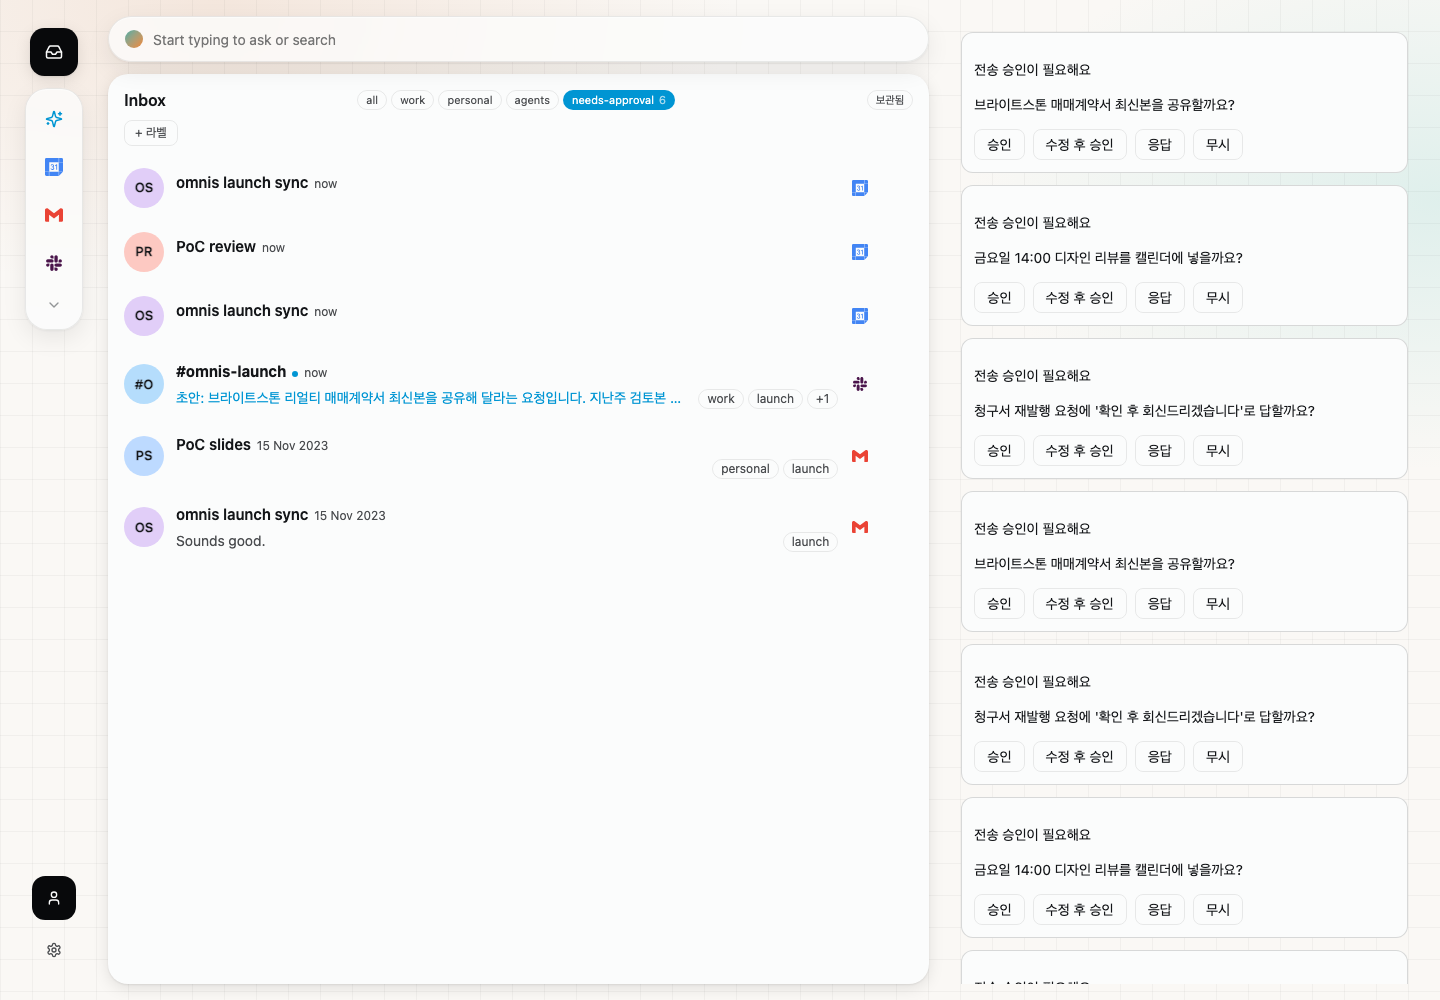
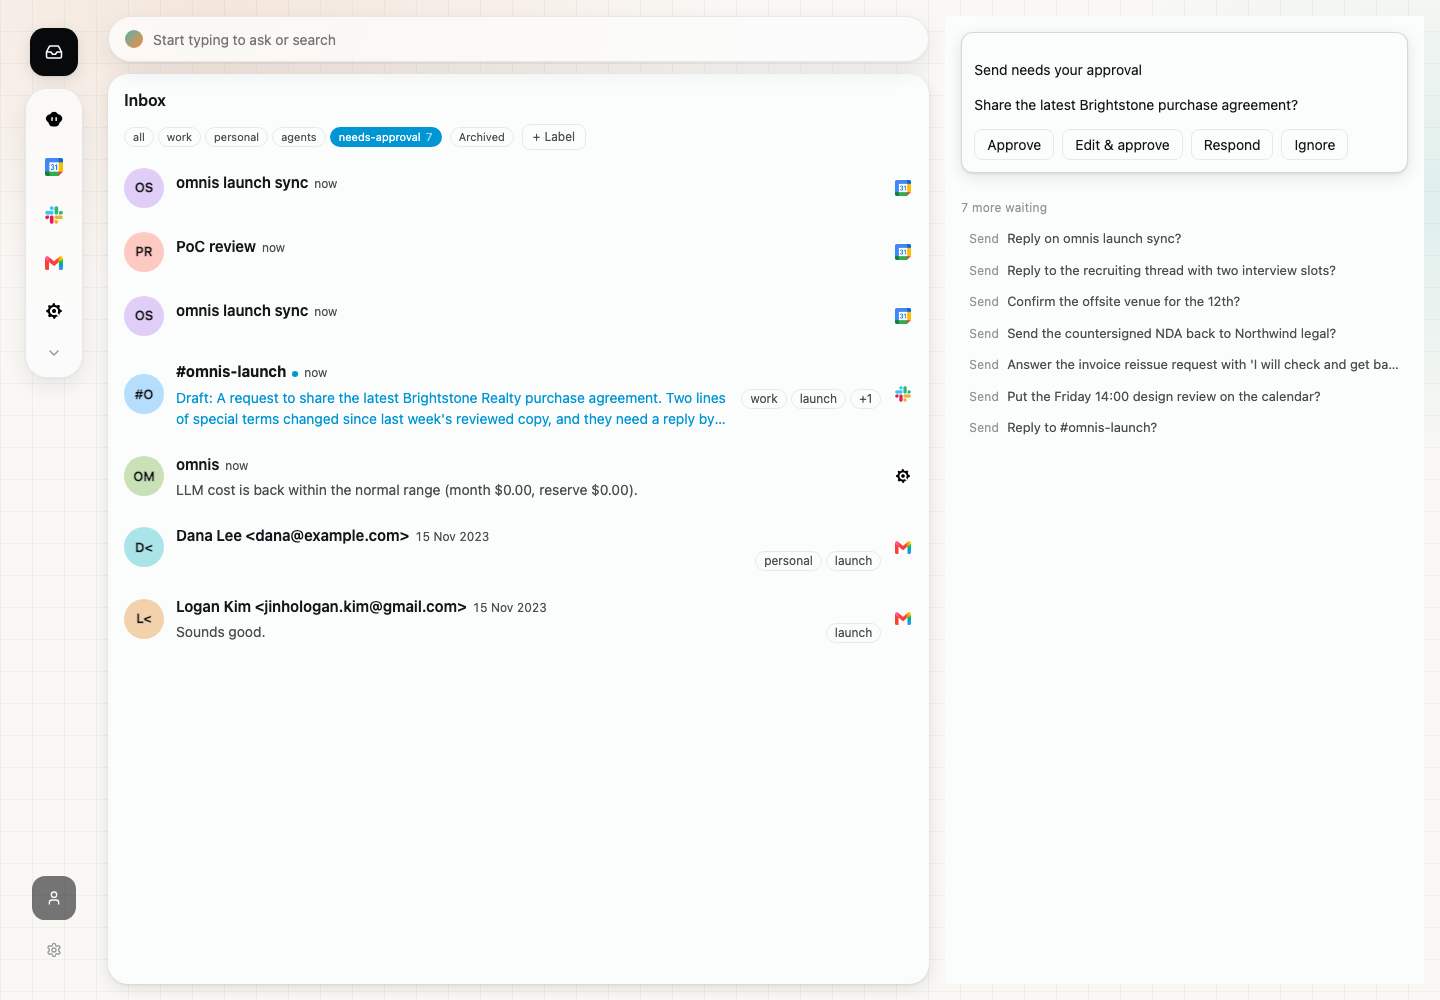
US-D03: detail pane header, key-value table, person card
The pane now carries the reference card's grammar: title plus a grey subline
(channel · people · last activity, people capped at three plus "+N"), the
segmented control, three right-aligned icon actions, and the one hairline table
in the product — 13px, label grey on the left, value right-aligned, tabular
figures on the numbers.

- KeyValueTable, PersonCard, SegmentedControl and ApprovalStack join packages/ui.
  The hover card is the PersonCard for rows with a person behind them; the
  approval stack expands the open thread's riskiest approval and collapses the
  rest to one-line rows under a count header.
- densify() now writes one distinct sentence per thread instead of rotating three
  strings through i % 3 (a repeated row under a count reads as a rendering
  fault), and spreads risk so the ranking has something to rank.
- Also fixed, found by re-shooting: the needs-approval pill counted its rows
  *after* the pill filter — labelFiltered returns pillFiltered untouched when no
  label is chosen — so the badge read 0 and vanished on the agents tab while
  eight approvals waited one tab away. It counts from channelFiltered now, with
  a test holding the number steady across tabs.
- shots.ts probes 390 and 768 alongside 1024/1280/1440: below 900px the pane is a
  floating sheet over the list, and no sweep had ever opened a thread to see it.

Reasoning and evidence: docs/design/POLISH-LOG.md (US-D03). Screenshots in
docs/design/screens (detail-pane.png is new).
[…]

diff --git a/tools/e2e/shots.ts b/tools/e2e/shots.ts
@@ -38,19 +38,30 @@ async function densify(pool: Pool): Promise<void> {
       pool,
       "SELECT id, title FROM threads WHERE kind <> 'agent_session' ORDER BY created_at",
     );
+    // One sentence per thread, and never the same sentence twice. The old fixture rotated three
+    // strings through `i % 3`, so any screenshot that caught more than three approvals printed one
+    // of them again — three identical rows under a count look like a rendering bug, not a queue.
+    // The per-thread fallback is what makes uniqueness structural rather than a longer list to
+    // outrun.
     const asks = [
       "Share the latest Brightstone purchase agreement?",
       "Put the Friday 14:00 design review on the calendar?",
       "Answer the invoice reissue request with 'I will check and get back to you'?",
+      "Send the countersigned NDA back to Northwind legal?",
+      "Confirm the offsite venue for the 12th?",
+      "Reply to the recruiting thread with two interview slots?",
     ];
     for (const [i, t] of threads.entries()) {
-      const description = asks[i % asks.length] ?? asks[0] ?? "";
+      const description = asks[i] ?? `Reply on ${t.title ?? "this thread"}?`;
       await kernel.approvals.propose({
         action: "send",
         args: { channel: "slack", body: description },
         description,
         config: { allow_accept: true, allow_edit: true, allow_respond: true, allow_ignore: true },
-        risk: "normal",
+        // The stack expands the open thread's **riskiest** approval and collapses the rest, so the
+        // fixture has to contain a risk spread: with every row on 'normal' the screenshot cannot
+        // show what the ranking does (and would rank by recency alone).
+        risk: i === 0 ? "high" : "normal",
         thread_id: t.id,
       });
     }
@@ -204,6 +215,25 @@ async function main(): Promise<void> {
     await page.waitForTimeout(1400);
     await page.screenshot({ path: join(OUT, "row-hover-card.png") });
 
+    // 5) The detail pane (US-D03) — the thread header (title, subline, segments, icon actions), the
+    //    key-value table and the approval stack. It has to be a thread that carries a pending
+    //    approval: the stack expands the open thread's riskiest one and collapses the rest, and a
+    //    thread with no approval of its own would only show the collapsed side of that rule.
+    await row.click();
+    // click() leaves the pointer on the row, which re-opens step 4's hover card 400ms later — over
+    // the very header this shot exists to show. Park the pointer off the list and wait for the card
+    // to leave the DOM rather than sleeping past it.
+    await page.mouse.move(2, 2);
+    await page.locator(".row-hover-card").waitFor({ state: "hidden", timeout: 5000 });
+    // The key-value table is behind the More icon by design (the pane's body is the conversation),
+    // so the screenshot opens it: otherwise the one component this story adds to the pane is the
+    // one thing the pane's own evidence cannot show.
+    await page.getByRole("button", { name: "More details" }).click();
+    await page.waitForTimeout(600);
+    await page
+      .locator('[data-testid="detail-pane"]')
+      .screenshot({ path: join(OUT, "detail-pane.png") });
+
     // The layout has to hold at the narrowest reachable width (src-tauri/tauri.conf.json minWidth
     // 1024). Page-level horizontal scroll alone is not evidence: two grid items inside a row can
     // share the same track and overlap while scrollWidth stays 0 (that is exactly how round three of
@@ -212,7 +242,13 @@ async function main(): Promise<void> {
     // (page scroll off <body> + an element-rect scan, tools/e2e/overflow.ts), and whether
     // .inbox-row__chips and .inbox-row__side bounding boxes overlap in any rendered row — the
     // overlap is the one inside a clipped box that neither scroll reading can see.
-    for (const width of [1024, 1280, 1440]) {
+    // 390 and 768 are below the desktop window's own 1024 floor, but they are not hypothetical: the
+    // web shell reaches them, SKILLS.md #11 names them, and shots-responsive.ts sweeps them — with
+    // one gap this loop closes. That sweep never opens a thread, so it never renders the detail pane,
+    // and below the 900px shell breakpoint the pane stops being a column and becomes a floating
+    // sheet over the list. The sheet is a third of the widths' worth of surface that nothing measured
+    // until this story put the approval stack, the segmented control and the key-value table in it.
+    for (const width of [390, 768, 1024, 1280, 1440]) {
       await page.setViewportSize({ width, height: 1000 });
       await page.waitForTimeout(400);
       const overflow = await page.evaluate(measureOverflow);

diff --git a/apps/desktop/src/screens/Inbox.tsx b/apps/desktop/src/screens/Inbox.tsx
@@ -493,13 +493,17 @@ export function Inbox({
   }, [filtered, grouped]);
 
   // The needs-approval tab's count. It only means anything if it is the same number whether or
-  // not the tab is selected, so it is counted **before** the pill filter (labelFiltered). At zero
-  // it is not drawn: an empty queue is said by an empty list, not by a badge.
+  // not the tab is selected, so it is counted **before** the pill filter — from `channelFiltered`,
+  // the last stage upstream of it. (It read `labelFiltered`, which looks pre-pill and is not: that
+  // stage returns `pillFiltered` untouched when no label is chosen, so the count was taken after
+  // the pill after all. The badge then vanished on every tab whose own rows carry no approval —
+  // the agents view advertised no queue while both waiting threads sat one tab away.) At zero it
+  // is not drawn: an empty queue is said by an empty list, not by a badge.
   const pendingCount = useMemo(
     () =>
-      applyArchiveView(labelFiltered, view, pendingArchive).filter((r) => r.hasPendingApproval)
+      applyArchiveView(channelFiltered, view, pendingArchive).filter((r) => r.hasPendingApproval)
         .length,
-    [labelFiltered, view, pendingArchive],
+    [channelFiltered, view, pendingArchive],
   );
 
   return (

diff --git a/apps/desktop/test/inbox-grouping.test.tsx b/apps/desktop/test/inbox-grouping.test.tsx
@@ -248,6 +248,18 @@ describe("Inbox group headers (US-D02)", () => {
     expect(rowNames()).toEqual(["Waiting thread", "Waiting thread 2"]);
   });
 
+  // How much is waiting on a decision is a fact about the queue, not about the tab you happen to
+  // be reading it from. Counting it downstream of the pill filter made it a fact about the tab:
+  // the badge read 0 on every tab whose own rows carry no approval, so the agents view showed no
+  // badge at all while both waiting threads sat one tab away.
+  it("keeps the pending count on the pill whichever tab is selected", () => {
+    renderInbox();
+    expect(filterTab("needs-approval")).toHaveTextContent("2");
+
+    filterBy("agents");
+    expect(filterTab("needs-approval")).toHaveTextContent("2");
+  });
+
   // On the needs-approval tab every row is pending, so a dot on each of them distinguishes
   // nothing. On any other tab it still means "this one is waiting on your decision", so it stays.
   it("hides the row's pending-approval dot on needs-approval and shows it elsewhere", () => {

diff --git a/docs/design/POLISH-LOG.md b/docs/design/POLISH-LOG.md
@@ -359,3 +359,78 @@ in full rather than line by line.
 branch. `pnpm tsx tools/e2e/shots-responsive.ts` reports `overflow 0px` at 390/768/1024/1440 in both
 passes, a filter row of 36–40px (never above the 40px cap) and a 57px rail pinned to the bottom edge
 at 390 and 768.
+
+## US-D03 — the detail pane, the one hairline table, and the person card (2026-09-21)
+
+Baseline: the right-hand card in `reference/ref-dashboard-detail-card.webp`. New evidence:
+`screens/detail-pane.png`; the four screens it re-shoots now carry eight distinct approval strings
+where the fixture used to repeat one sentence three times.
+
+### What changed
+
+1. **`KeyValueTable` (`packages/ui`) is where hairlines are allowed.** 13px, label grey on the left,
+   value right-aligned, one `1px` rule above every row but the first, and `data-numeric` switching the
+   value to tabular figures for the times and counts. Both callers are fact sheets rather than prose:
+   the thread's own meta and the hover card.
+2. **The detail header takes the reference's card header** — title, one grey subline under it, the
+   segmented control, three right-aligned icon actions. The subline is a tested pure function
+   (`threadSubline`) joining `channel · people · last activity`, people capped at three plus `+N`.
+   Archive is a real state change; Labels and More are disclosures, not icon-shaped decoration — an
+   icon that does nothing when pressed is worse than no icon. `apps/desktop` has no radix dependency,
+   so both are inline panels, which also keeps them out of the floating layer.
+3. **`PersonCard`** is the shared identity block: avatar or initials with the pastel fallback, a badge
+   row, then the same table (channels, last contact, relationship state, plus the caller's own rows).
+   The hover card *is* that card for rows with a person behind them. An agent-session row has nobody
+   behind it — its avatar slot holds the runtime logo — so it keeps the plain title + table form and
+   omits the channel line rather than inventing a person to fill it.
+4. **The approval stack** scopes to the open thread: that thread's riskiest, then newest, approval is
+   the expanded and elevated card, its in-scope siblings lead the collapsed one-line rows, and the
+   rest follow under a count header. Picking a collapsed row promotes it — and it leaves the list it
+   came from, which was the first version's bug: it rendered in both places at once.
+5. **Part of the bug was the fixture.** `densify()` rotated three sentences through `i % 3`, so any
+   screenshot catching more than three approvals printed one of them twice, and three identical rows
+   under a count read as a rendering fault rather than a queue. It now uses one sentence per thread
+   with a per-thread fallback, which makes uniqueness structural instead of a longer list to outrun,
+   and it spreads risk so the ranking has something to rank.
+
+### Found by actually using the screen
+
+- **The pill count was reading the wrong stage of the pipeline.** `pendingCount` said it counted
+  "before the pill filter (labelFiltered)" and did not: `labelFiltered` returns `pillFiltered`
+  untouched when no label is chosen, so the count was taken after the pill after all. The badge read
+  0 on every tab whose own rows carry no approval — the agents view advertised an empty queue while
+  eight approvals waited one tab away. It counts from `channelFiltered` now (the last stage genuinely
+  upstream of the pill), with a test that holds the number steady across tabs. Nothing had noticed
+  because the earlier rounds' fixtures had no pending approvals at all: the badge never drew, so it
+  could not draw wrongly.
+- The first `detail-pane.png` had the hover card sitting over the header the shot exists to show:
+  Playwright's `click()` leaves the pointer on the row, which re-opens the card 400ms later. The
+  pointer now parks off the list, and the script waits for the card to leave the DOM instead of
+  sleeping past it.
+- The pane's own table was behind the More icon, so the one component this story adds to the pane was
+  the one thing its evidence could not show. The screenshot opens it.
+- The stack looked mis-scoped and was not. Assuming one approval per thread is what made the expanded
+  card look like the wrong one: the fixture puts two on `#omnis-launch` (the seed proposes one too),
+  and the expanded card is the newest in scope with its sibling leading the collapsed rows. The
+  `needs-approval 7` badge against eight approvals is the same fact twice — seven threads, eight
+  approvals — not a disagreement.
+
+### Deliberately not done this round
+
+- Absolute dates in the meta table. `Created: now` is honest (the fixture thread really is created
+  during the run), and `packages/ui` has exactly one time formatter on purpose; a second convention
+  costs more than one fixture row is worth.
+- `DraftCard`'s hardcoded Korean copy, which is visible in the pane shot. It is not this story's file
+  and the branch's i18n sweep owns it — `ko.ts`/`en.ts` already carry `common.draftCard` for it.
+- Reporting the pane's overflow at 390/768 from `shots-responsive.ts`: that sweep never opens a
+  thread, so it never renders the pane, and below the 900px breakpoint the pane is a floating sheet
+  over the list. The two widths went into `shots.ts`'s own probe loop instead, which has a thread
+  open — the sheet is a third of the widths' surface that nothing had measured.
+
+### Evidence
+
+`pnpm lint` (692 files, no fixes applied) and `pnpm typecheck` (`tsc --build --force`) exit 0.
+`@omnis/ui` 22 files / 194 passed. `@omnis/desktop` 68 passed across 10 files, with
+`test/integration/zero-client.test.ts` still failing to collect on an unresolved `@omnis/db` — the
+same pre-existing suite the round above recorded. `pnpm tsx tools/e2e/shots.ts` reports `overflow 0px`
+and zero chip/side-slot overlaps across all 12 rows at each of 390/768/1024/1280/1440.
